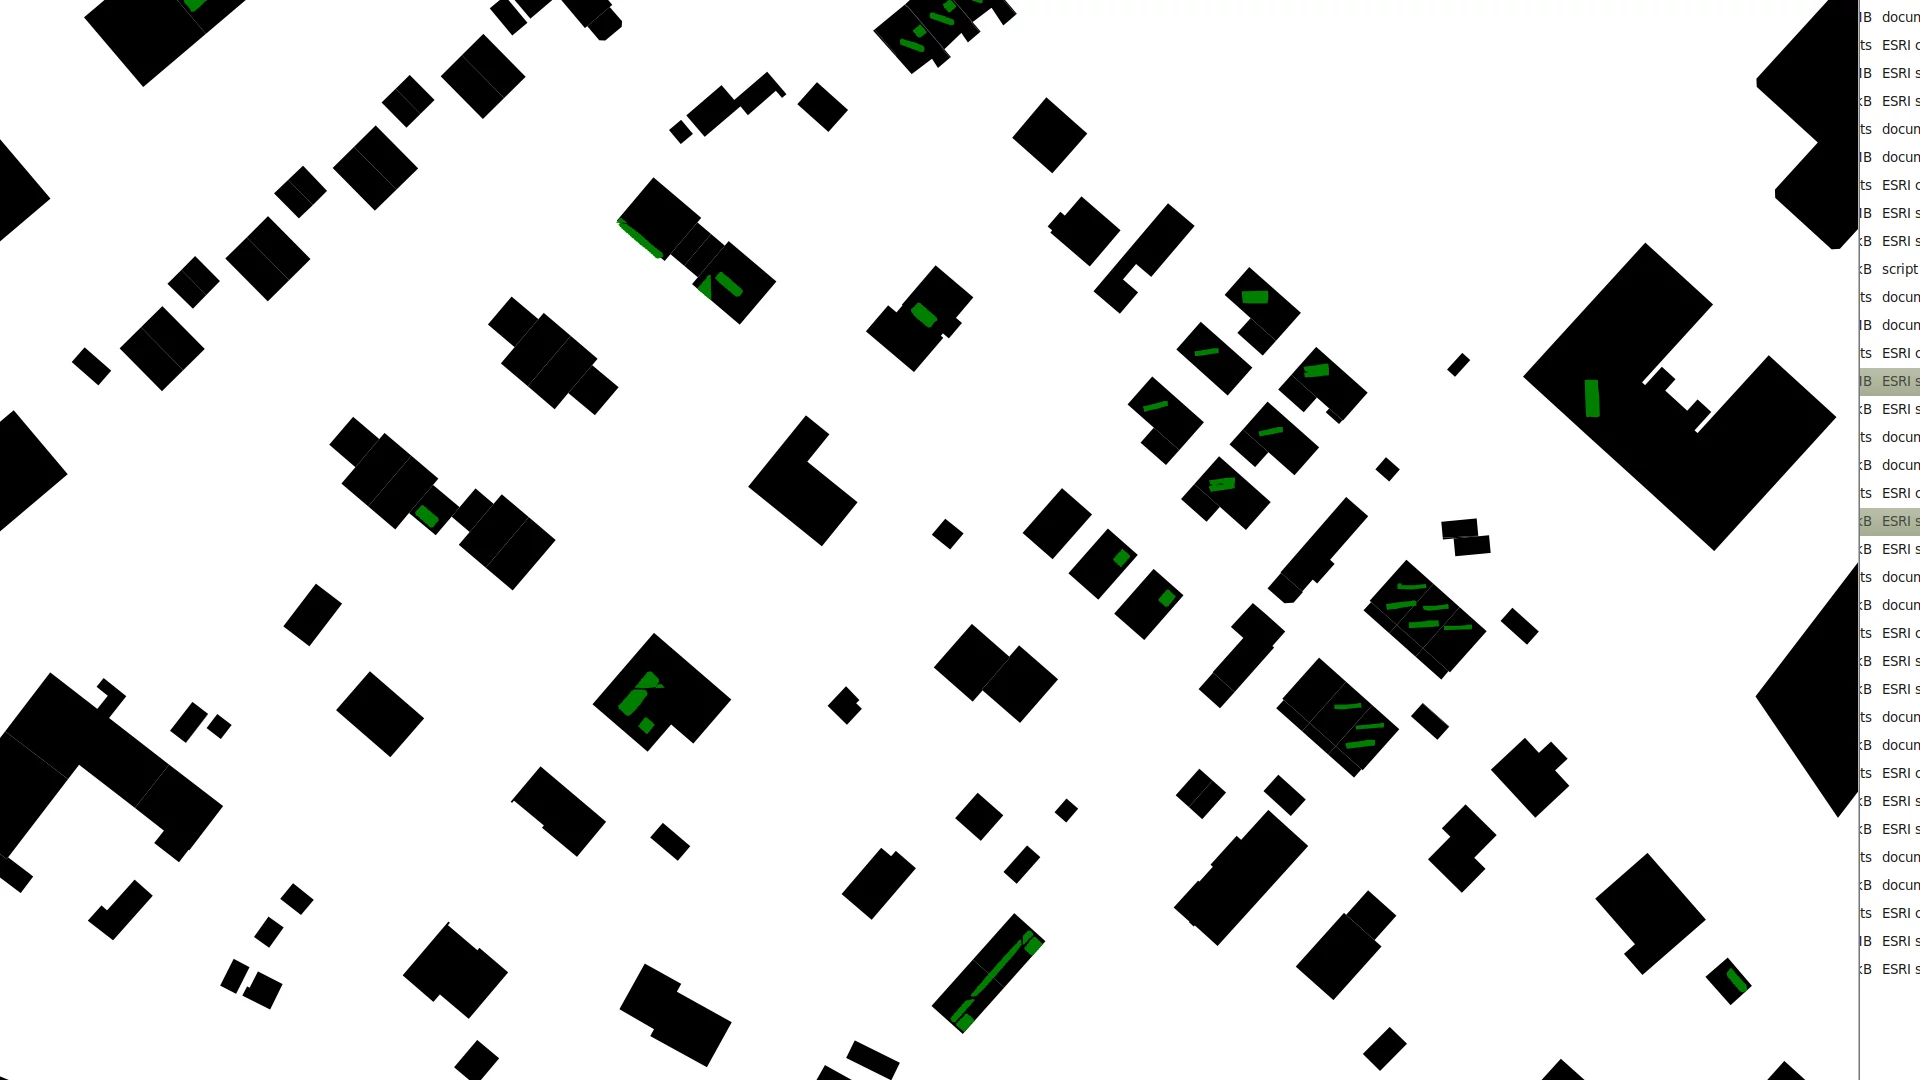
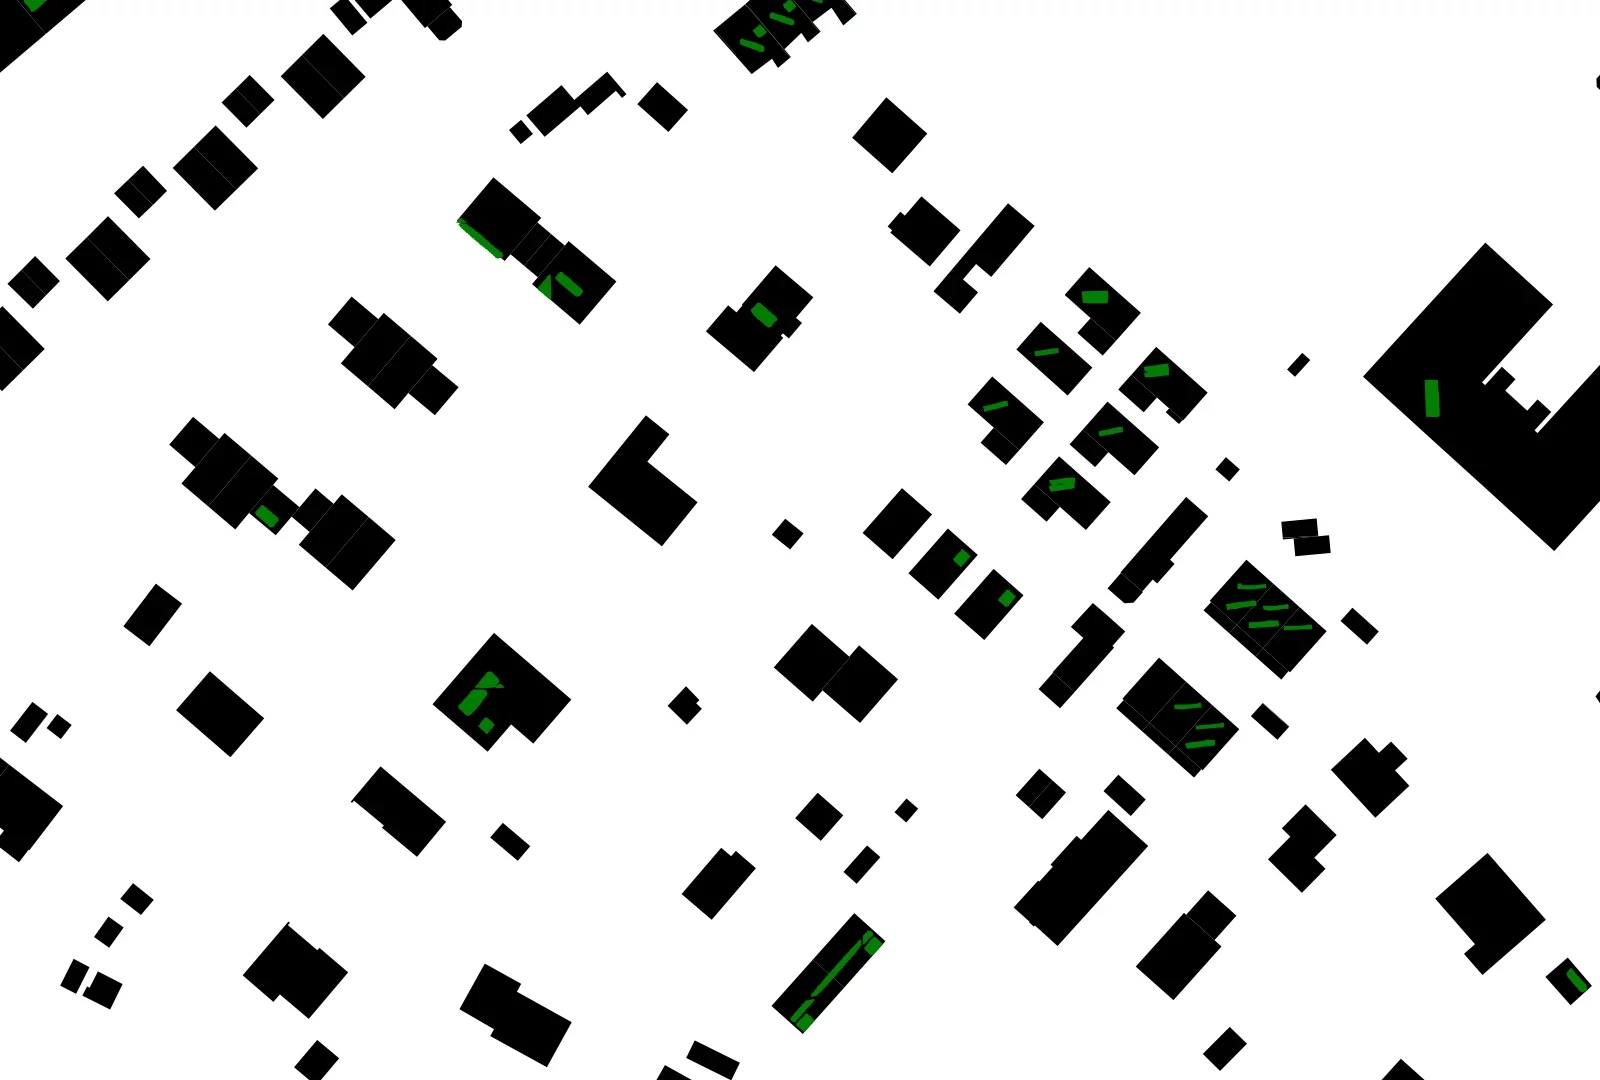
Correction of illustrations

diff --git a/tools/filter-prediction/README.md b/tools/filter-prediction/README.md
@@ -23,7 +23,7 @@ In case _point_ is provided, the filtered predictions are transformed into point
 As an example, the following predictions, in red, are filtered according to the building footprints, in black. As prediction should correspond to thermal panel, one assumes that prediction make sense only inside the geometry of the city buildings.
 
 <p align="center">
-<img src="doc/prediction.webp?raw=true" width="35%">
+<img src="doc/prediction.webp?raw=true" width="45%">
 <br />
 <i>Thermal panels prediction (red) and building footprints (black) - STDL/SITG</i>
 </p>
@@ -31,9 +31,9 @@ As an example, the following predictions, in red, are filtered according to the 
 If the _mode_ is set to _inside_, the following outcome are obtained when setting _export_ parameter to _polygon and to _point_ :
 
 <p align="center">
-<img src="doc/inside.webp?raw=true" width="35%">
+<img src="doc/inside.webp?raw=true" width="45%">
 &nbsp;
-<img src="doc/inside-point.webp?raw=true" width="35%">
+<img src="doc/inside-point.webp?raw=true" width="45%">
 <br />
 <i>Inside filtering exported as polygons (left) and points (right) </i>
 </p>
@@ -43,9 +43,9 @@ The points are rendered with their corresponding geometry on the images, but the
 When the _mode_ is set to _outside_, the following outcomes are obtained :
 
 <p align="center">
-<img src="doc/outside.webp?raw=true" width="35%">
+<img src="doc/outside.webp?raw=true" width="45%">
 &nbsp;
-<img src="doc/outside-point.webp?raw=true" width="35%">
+<img src="doc/outside-point.webp?raw=true" width="45%">
 <br />
 <i>Inside filtering exported as polygons (left) and points (right) </i>
 </p>
